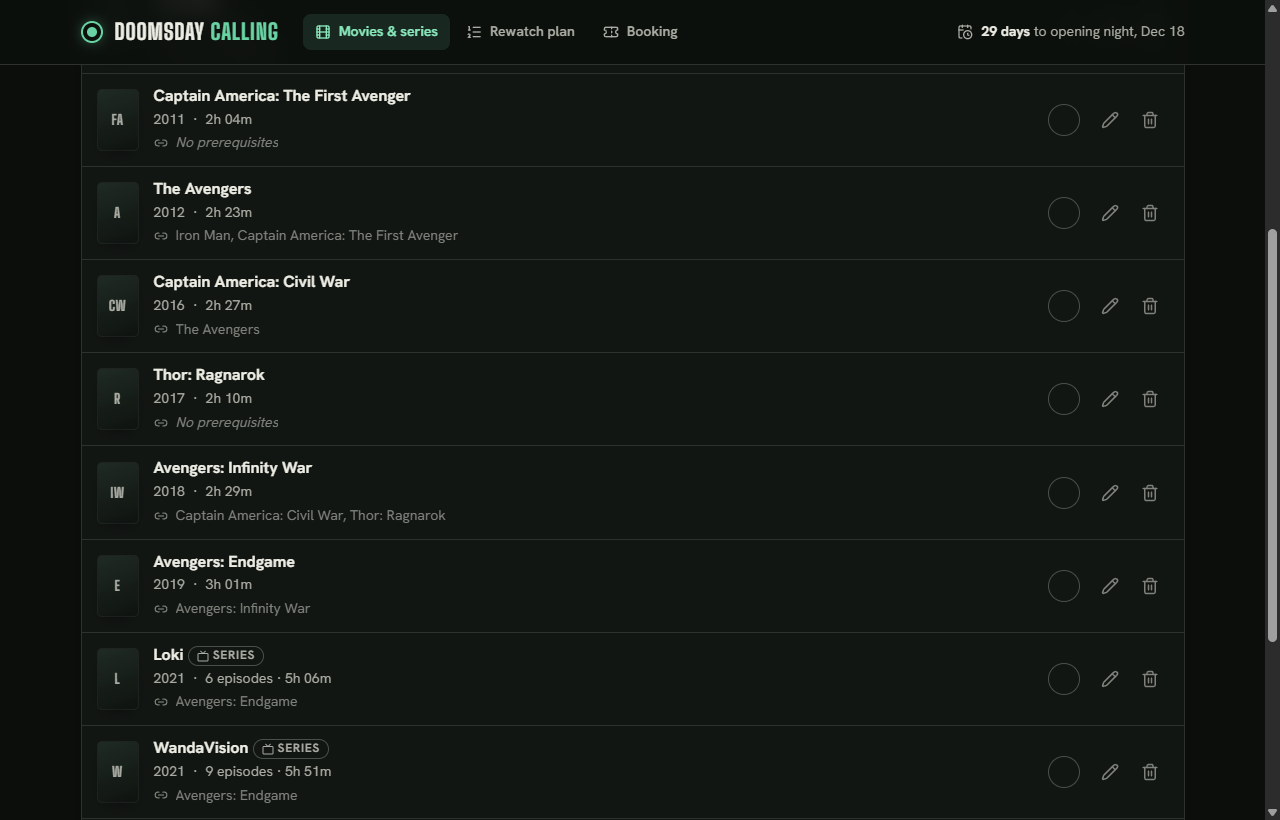
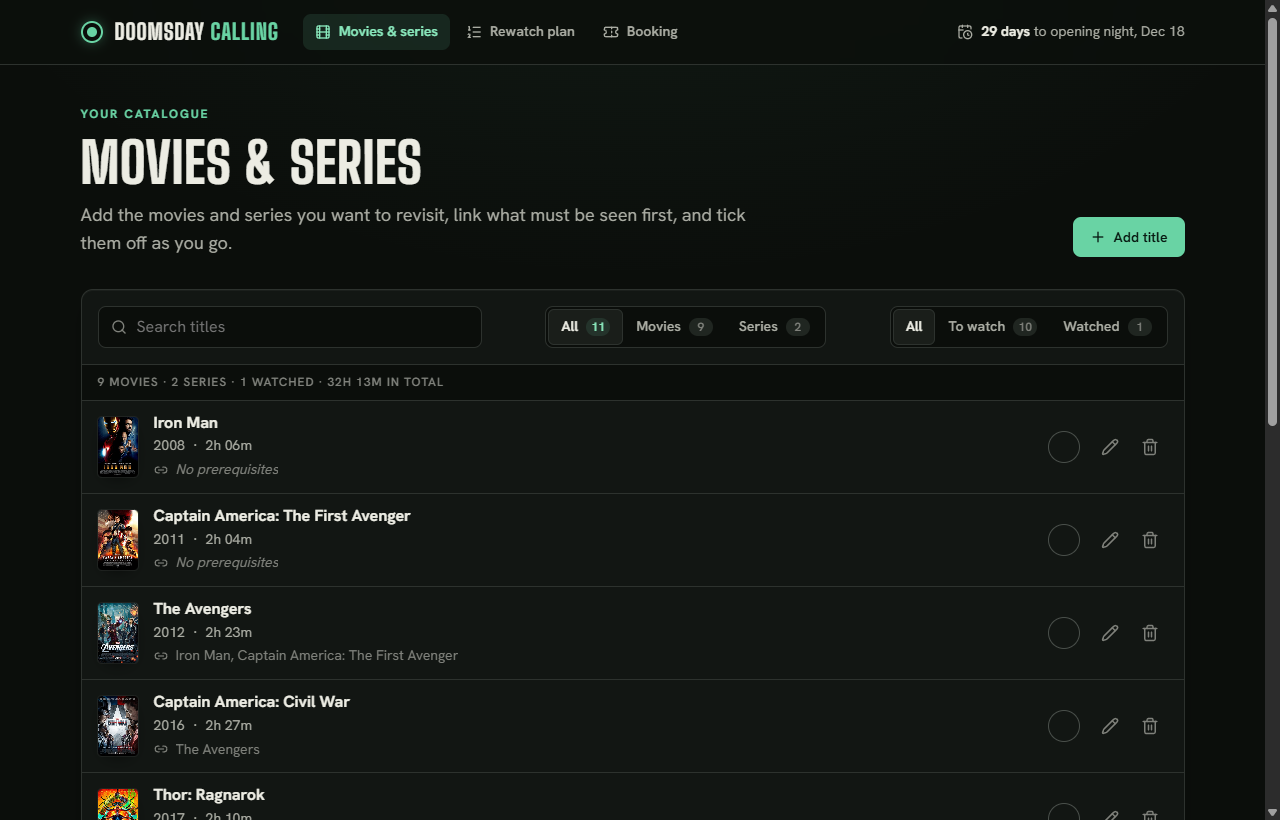
docs: document details page, automatic posters and title_metadata

diff --git a/README.md b/README.md
@@ -4,11 +4,11 @@ Plan your MCU rewatch (movies **and** series) before **Avengers: Doomsday**, the
 
 A full-stack TypeScript app built for the Blinto Talent Accelerator 2027 full-stack internship assessment. It has a React client, an Express API and PostgreSQL. Both core algorithms (dependency ordering with cycle detection, and minimum-bundle booking) are hand-written with no graph or optimisation libraries.
 
-![Rewatch plan](docs/screenshots/rewatch-plan.png)
+![Title details](docs/screenshots/title-details.png)
 
-| Movies & series                        | Booking                                  | Circular dependency                                                  |
-| -------------------------------------- | ---------------------------------------- | -------------------------------------------------------------------- |
-| ![Movies](docs/screenshots/movies.png) | ![Booking](docs/screenshots/booking.png) | ![409 CIRCULAR_DEPENDENCY](docs/screenshots/circular-dependency.png) |
+| Rewatch plan                                       | Movies & series                        | Booking                                  | Circular dependency                                                  |
+| -------------------------------------------------- | -------------------------------------- | ---------------------------------------- | -------------------------------------------------------------------- |
+| ![Rewatch plan](docs/screenshots/rewatch-plan.png) | ![Movies](docs/screenshots/movies.png) | ![Booking](docs/screenshots/booking.png) | ![409 CIRCULAR_DEPENDENCY](docs/screenshots/circular-dependency.png) |
 
 ## Contents
 
@@ -48,9 +48,13 @@ npm run dev          # API on :4000, client on :5173
 
 Open **http://localhost:5173**.
 
-### Optional: TMDb posters and autofill
+### Posters and details (no setup needed)
 
-The app is fully functional without it. To enable movie search, posters and runtime autofill, create a free key at [themoviedb.org](https://www.themoviedb.org/settings/api) and set `TMDB_API_KEY` (either the v3 API key or the v4 Read Access Token):
+Posters, overviews, genres and ratings are found automatically, **without any API key**: [TVMaze](https://www.tvmaze.com/api) for series and [Wikipedia](https://www.mediawiki.org/wiki/API:Main_page) for movies. They are cached in the database, and the server fills in missing titles in the background on startup. Set `METADATA_LOOKUPS=false` to make no external requests.
+
+### Optional: TMDb
+
+With a free [TMDb](https://www.themoviedb.org/settings/api) key you also get movie search with runtime autofill in the add form, and TMDb is used first for movie details (ratings, genres, backdrops). Set `TMDB_API_KEY` (either the v3 API key or the v4 Read Access Token):
 
 - local development: in `server/.env`
 - Docker: `TMDB_API_KEY=... docker compose up --build`, or put it in a root `.env` file
@@ -87,6 +91,8 @@ The app is fully functional without it. To enable movie search, posters and runt
 | **Movies & series** | Add, edit and delete movies and series; pick prerequisites from a searchable list; tick watched; search and filter by type and status               |
 | **Rewatch plan**    | Pick a target and see the ordered list with ticks, an "X of Y watched" progress bar and remaining time. The target is in the URL (`/plan?target=8`) |
 | **Booking**         | Pick a cinema and a group size; see the bundles (with a seat strip) or "Not possible". Shareable via `/booking?cinema=3&group=44`                   |
+
+Clicking any title opens its **details page** (`/titles/:id`): poster with a blurred backdrop, overview, genres and rating, what to watch first and what it unlocks next, the watched toggle, edit, and a link to its rewatch plan. Posters also appear in every list.
 
 Ticking watched updates the list, progress bar and remaining time instantly (optimistic update with rollback). Each view has loading, empty and error states. The UI is keyboard and screen-reader friendly, and responsive down to phone widths.
 
@@ -127,21 +133,22 @@ Greedy ("largest bundle first") is wrong here. For sizes 1, 3, 4 and 6 seats it 
 
 All endpoints are under `/api`. Request and response bodies are JSON.
 
-| Method   | Path                                                          | Purpose                                                      |
-| -------- | ------------------------------------------------------------- | ------------------------------------------------------------ |
-| `POST`   | `/movies`                                                     | Create a movie                                               |
-| `GET`    | `/movies`                                                     | List movies (by release year)                                |
-| `GET`    | `/movies/:id`                                                 | Get one movie _(extra)_                                      |
-| `PATCH`  | `/movies/:id`                                                 | Update any fields, including `watched` and `prerequisiteIds` |
-| `DELETE` | `/movies/:id`                                                 | Delete a movie _(extra)_                                     |
-| `GET`    | `/movies/:id/rewatch-order`                                   | Rewatch order (feature 1)                                    |
-| `POST`   | `/cinemas`                                                    | Create a cinema                                              |
-| `GET`    | `/cinemas`                                                    | List cinemas (by name)                                       |
-| `GET`    | `/cinemas/:id`                                                | Get one cinema _(extra)_                                     |
-| `DELETE` | `/cinemas/:id`                                                | Delete a cinema _(extra)_                                    |
-| `GET`    | `/cinemas/:id/booking?groupSize=6`                            | Booking quote (feature 2)                                    |
-| `GET`    | `/tmdb/status`, `/tmdb/search?query=`, `/tmdb/movies/:tmdbId` | Optional TMDb proxy _(extra)_                                |
-| `GET`    | `/health`                                                     | Health check _(extra)_                                       |
+| Method   | Path                                                          | Purpose                                                                |
+| -------- | ------------------------------------------------------------- | ---------------------------------------------------------------------- |
+| `POST`   | `/movies`                                                     | Create a movie                                                         |
+| `GET`    | `/movies`                                                     | List movies (by release year)                                          |
+| `GET`    | `/movies/:id`                                                 | Get one movie _(extra)_                                                |
+| `PATCH`  | `/movies/:id`                                                 | Update any fields, including `watched` and `prerequisiteIds`           |
+| `DELETE` | `/movies/:id`                                                 | Delete a movie _(extra)_                                               |
+| `GET`    | `/movies/:id/rewatch-order`                                   | Rewatch order (feature 1)                                              |
+| `GET`    | `/movies/:id/details`                                         | Title, prerequisites, titles it unlocks and external details _(extra)_ |
+| `POST`   | `/cinemas`                                                    | Create a cinema                                                        |
+| `GET`    | `/cinemas`                                                    | List cinemas (by name)                                                 |
+| `GET`    | `/cinemas/:id`                                                | Get one cinema _(extra)_                                               |
+| `DELETE` | `/cinemas/:id`                                                | Delete a cinema _(extra)_                                              |
+| `GET`    | `/cinemas/:id/booking?groupSize=6`                            | Booking quote (feature 2)                                              |
+| `GET`    | `/tmdb/status`, `/tmdb/search?query=`, `/tmdb/movies/:tmdbId` | Optional TMDb proxy _(extra)_                                          |
+| `GET`    | `/health`                                                     | Health check _(extra)_                                                 |
 
 <details>
 <summary>Examples</summary>
@@ -205,6 +212,7 @@ Every error has the shape `{ "error": { "code", "message", "details?" } }`.
 erDiagram
     MOVIES ||--o{ MOVIE_PREREQUISITES : "has prerequisite"
     MOVIES ||--o{ MOVIE_PREREQUISITES : "is prerequisite of"
+    MOVIES ||--o| TITLE_METADATA : "described by"
     CINEMAS ||--|{ CINEMA_BUNDLE_SIZES : sells
 
     MOVIES {
@@ -226,6 +234,19 @@ erDiagram
         int prerequisite_id PK, FK "watch this first"
     }
 
+    TITLE_METADATA {
+        int movie_id PK, FK
+        text source "tmdb, tvmaze or wikipedia; null = not found"
+        text poster_url
+        text poster_large_url
+        text backdrop_url
+        text overview
+        text_array genres
+        numeric rating "0-10"
+        text external_url
+        timestamptz fetched_at
+    }
+
     CINEMAS {
         int id PK
         text name UK "unique, case-insensitive"
@@ -242,6 +263,7 @@ erDiagram
 - **`movie_prerequisites`** is a self-referencing many-to-many join table. A `CHECK (movie_id <> prerequisite_id)` blocks direct self-dependency in the database. Indirect cycles are blocked by the API before anything is written.
 - **`cinema_bundle_sizes`** has one row per size. Its composite primary key keeps sizes distinct. The 1–10 sizes per cinema rule is enforced by the API.
 - **`movies`** holds both movies and series (`kind`). A `CHECK` keeps movies at exactly one episode. Keeping one table means series and movies share one prerequisite graph.
+- **`title_metadata`** caches external details, one row per title. "Not found" is cached too, but nothing is cached when every source was unreachable, so outages are retried.
 - Deleting a movie or cinema cascades to its rows in the join tables.
 - Migrations are plain SQL in [`server/migrations`](server/migrations), applied by a small forward-only runner.
 
@@ -250,11 +272,12 @@ erDiagram
 ```
 .
 ├── server/                    Express 5 + TypeScript API
-│   ├── migrations/            001_create_movies.sql … 004_add_series_support.sql
+│   ├── migrations/            001_create_movies.sql … 005_create_title_metadata.sql
 │   ├── src/
 │   │   ├── modules/
 │   │   │   ├── movies/        dependency-graph.ts (algorithms), schemas, repository, service, routes
 │   │   │   ├── cinemas/       booking-quote.ts (algorithm), schemas, repository, service, routes
+│   │   │   ├── metadata/      poster and details providers (TMDb, TVMaze, Wikipedia) + cache
 │   │   │   └── tmdb/          optional TMDb client + proxy routes
 │   │   ├── db/                pool + transactions, migration runner, seed
 │   │   ├── middleware/        central error handler
@@ -264,7 +287,7 @@ erDiagram
 │   └── src/
 │       ├── api/               fetch wrapper (ApiError), types, TanStack Query hooks
 │       ├── components/        layout/ and ui/ (Button, Field, Dialog, ProgressBar, …)
-│       ├── features/          movies/, rewatch/, booking/ (one folder per view)
+│       ├── features/          movies/, title/, rewatch/, booking/ (one folder per view)
 │       └── styles/            design tokens + global styles
 ├── docker-compose.yml         db → server → client (nginx)
 └── .github/workflows/ci.yml   format, lint, typecheck, test, build, Docker build
@@ -280,13 +303,13 @@ erDiagram
 
 ## Testing
 
-**190 tests**, all run in CI on every pull request against a real Postgres service container.
+**217 tests**, all run in CI on every pull request against a real Postgres service container.
 
-| Suite              | Count | Covers                                                                                                                                                                         |
-| ------------------ | ----- | ------------------------------------------------------------------------------------------------------------------------------------------------------------------------------ |
-| Server unit        | 41    | Cycle detection, rewatch order (including brief examples, random graphs, 50k chains), booking DP (brief examples, greedy counterexample, brute-force cross-check), TMDb client |
-| Server integration | 79    | Every endpoint through HTTP against Postgres: validation, uniqueness, the brief's expected results, rollback of rejected updates, series and mixed movie/series plans          |
-| Client             | 70    | API error mapping, form validation, optimistic plan updates, timeline, quote rendering, accessibility attributes                                                               |
+| Suite              | Count | Covers                                                                                                                                                                                                          |
+| ------------------ | ----- | --------------------------------------------------------------------------------------------------------------------------------------------------------------------------------------------------------------- |
+| Server unit        | 53    | Cycle detection, rewatch order (including brief examples, random graphs, 50k chains), booking DP (brief examples, greedy counterexample, brute-force cross-check), TMDb client, metadata matching and providers |
+| Server integration | 88    | Every endpoint through HTTP against Postgres: validation, uniqueness, the brief's expected results, rollback of rejected updates, series and mixed plans, details endpoint and metadata caching                 |
+| Client             | 76    | API error mapping, form validation, optimistic plan updates, timeline, quote rendering, accessibility attributes                                                                                                |
 
 ```bash
 npm test                          # everything (integration tests need Postgres: npm run db:up)
@@ -332,6 +355,12 @@ The brief asks for unclear points to be decided and noted. These are mine:
 - Sample movie links come from the brief. Runtimes are theatrical runtimes; Avengers: Doomsday is unreleased, so its 150 minutes is an estimate.
 - Sample cinema names are fictional.
 
+**Posters and details**
+
+- External details are display-only. Nothing in the rewatch order or booking logic depends on them, and the details endpoint still answers (with `metadata: null`) when every source is down.
+- Wikipedia is matched by title and the article must describe a film or show, so _Iron Man_ the comic character is never used for _Iron Man_ the film. Posters are loaded directly from Wikimedia, TVMaze or TMDb; only those https hosts are accepted.
+- Requests send a generic User-Agent with no personal details.
+
 **UI**
 
 - The prerequisite picker does not pre-disable choices that would create a loop. The API is the single source of truth for that rule, and the UI explains its 409 response by drawing the loop.
@@ -342,5 +371,5 @@ The brief allows AI tools if their use is disclosed. I built this project with *
 
 - **Direction and decisions were mine:** PostgreSQL as the database, TMDb as an optional (not required) integration, the visual direction, and a professional workflow of one branch and pull request per feature with CI on every PR.
 - **The AI wrote most of the code:** the two algorithms, the API, the React views, the tests and this README. It explained each algorithm and decision as it went, and asked before major choices.
-- **Verification did not rely on trusting the AI.** Every example from the brief is an automated test, CI runs all 190 tests against a real database, and each view was exercised in a real browser against the real API. When a generated test turned out to prove nothing (a concurrency test that also passed with the lock removed), it was deleted rather than kept as false evidence.
+- **Verification did not rely on trusting the AI.** Every example from the brief is an automated test, CI runs all 217 tests against a real database, and each view was exercised in a real browser against the real API. When a generated test turned out to prove nothing (a concurrency test that also passed with the lock removed), it was deleted rather than kept as false evidence.
 - No library solves features 1 or 2. The graph traversal and the dynamic programming are plain TypeScript in the two files linked above.
